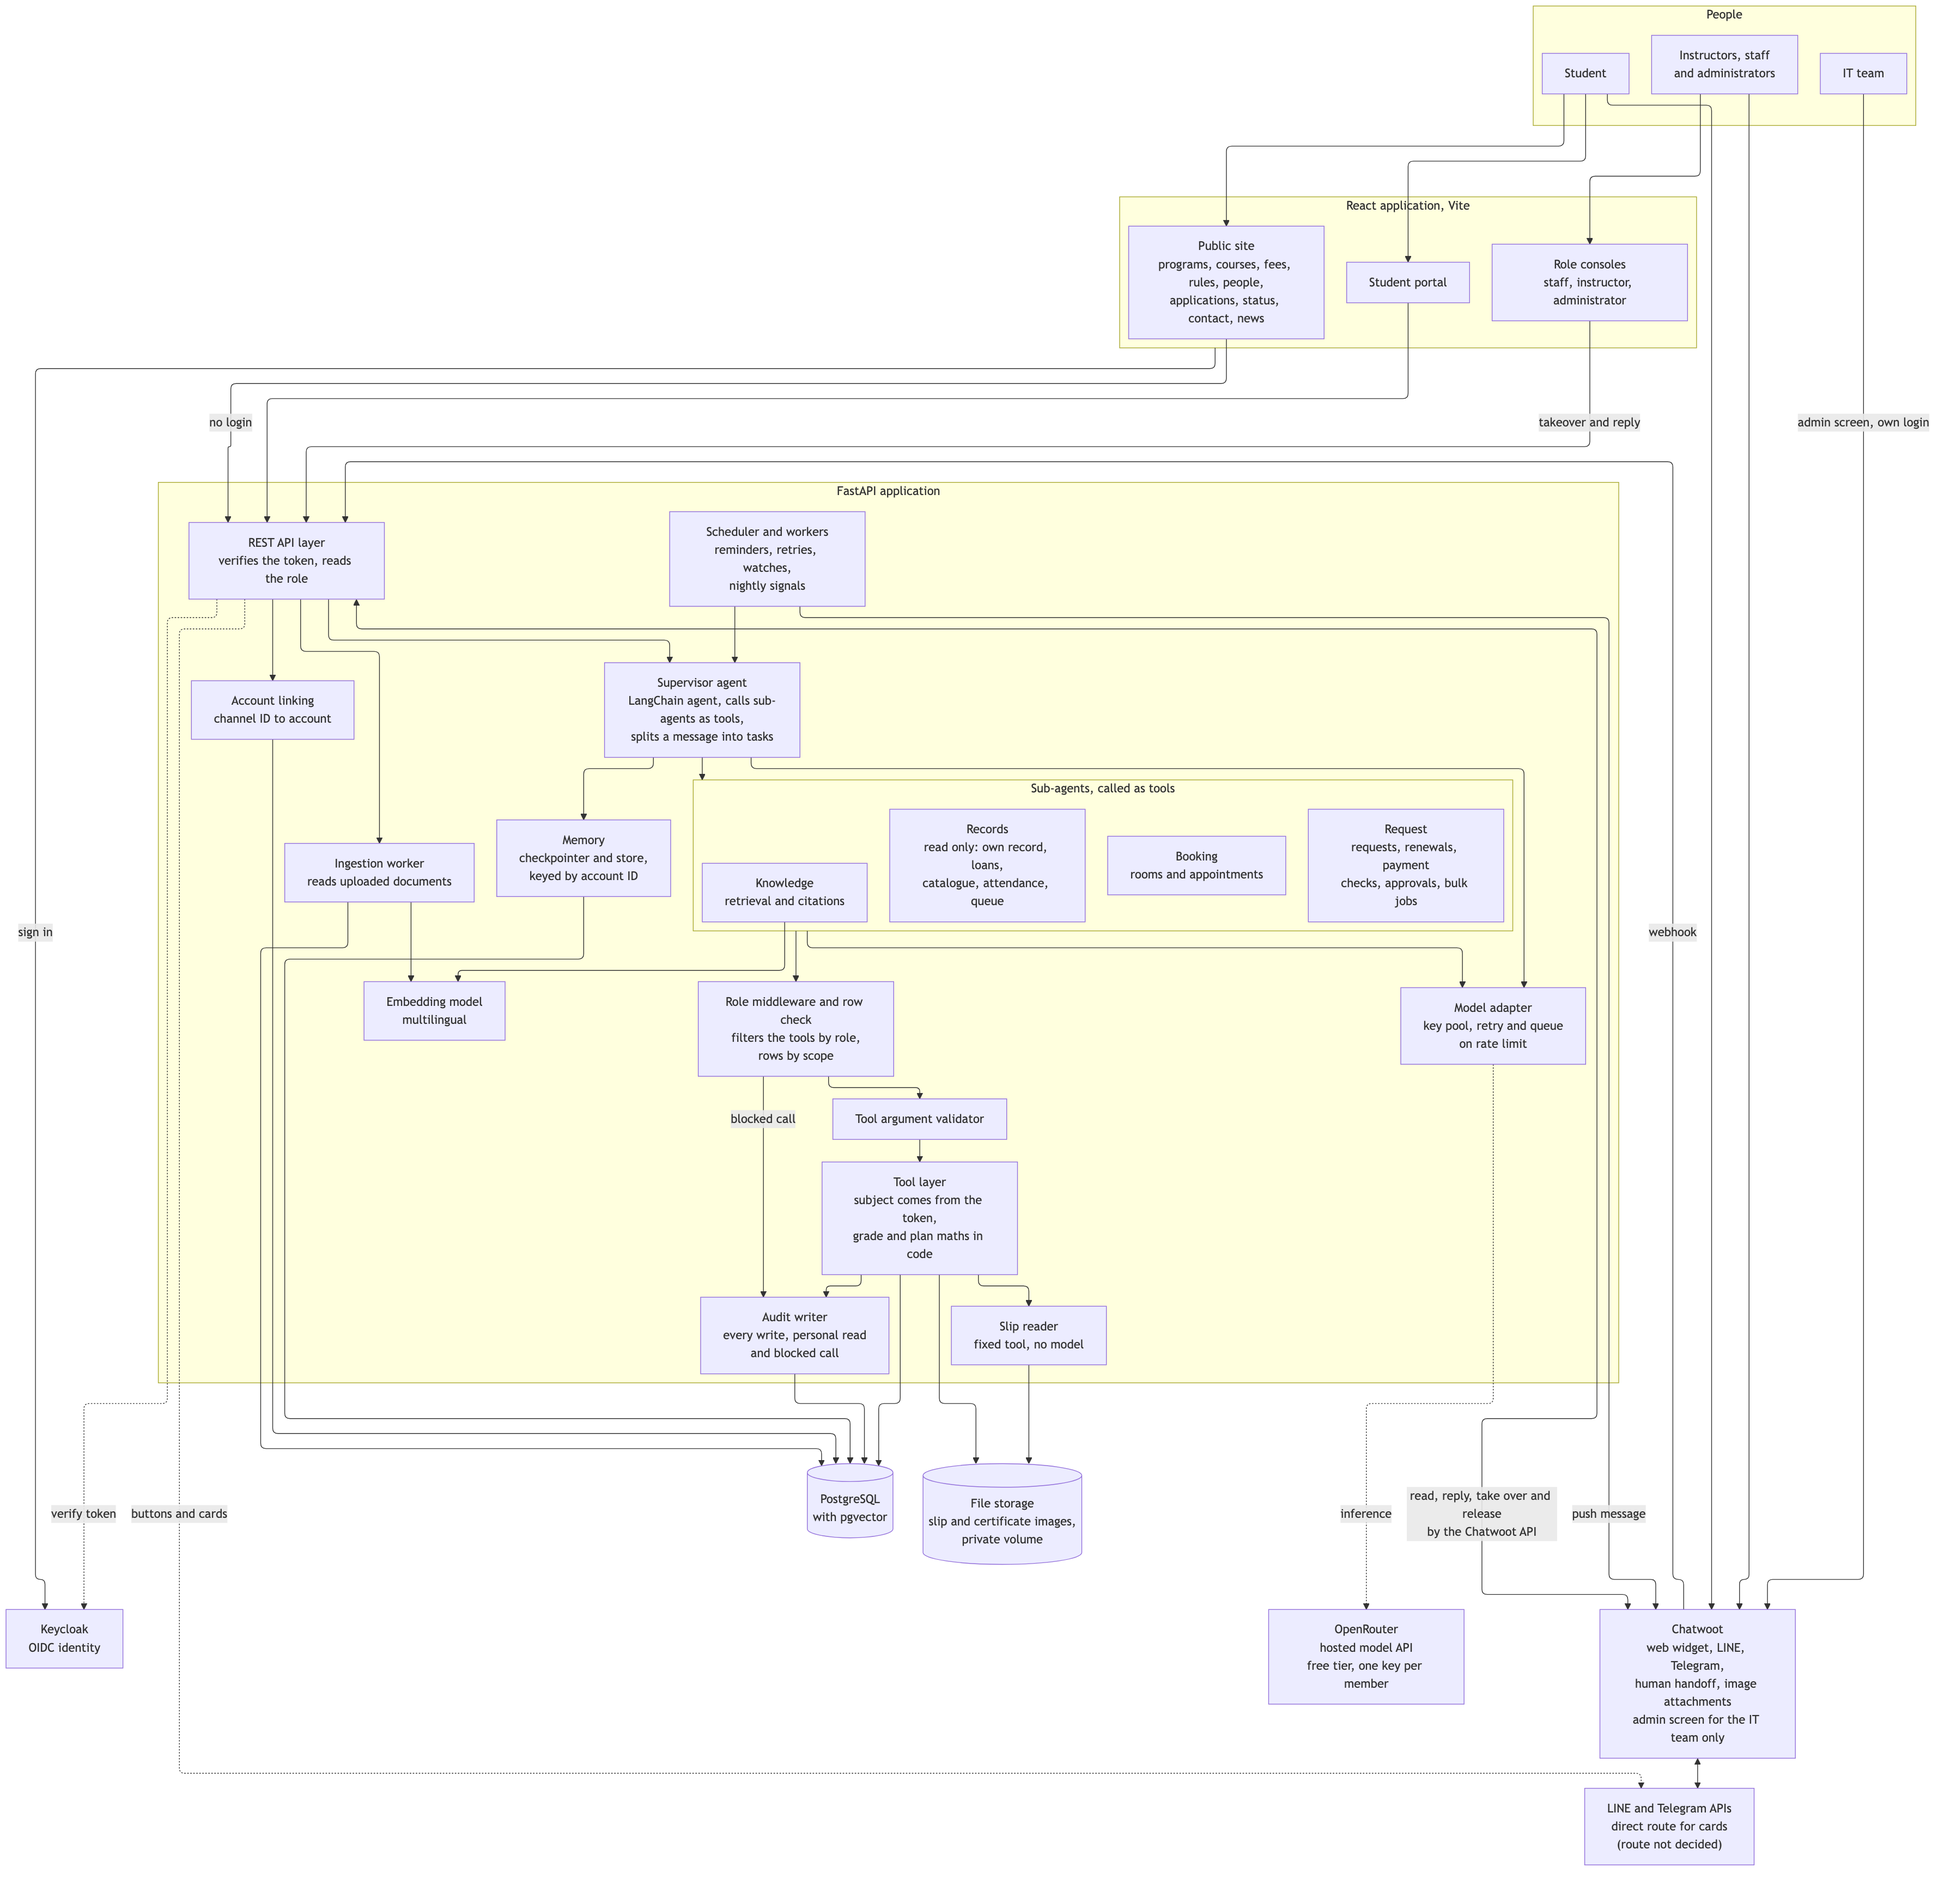
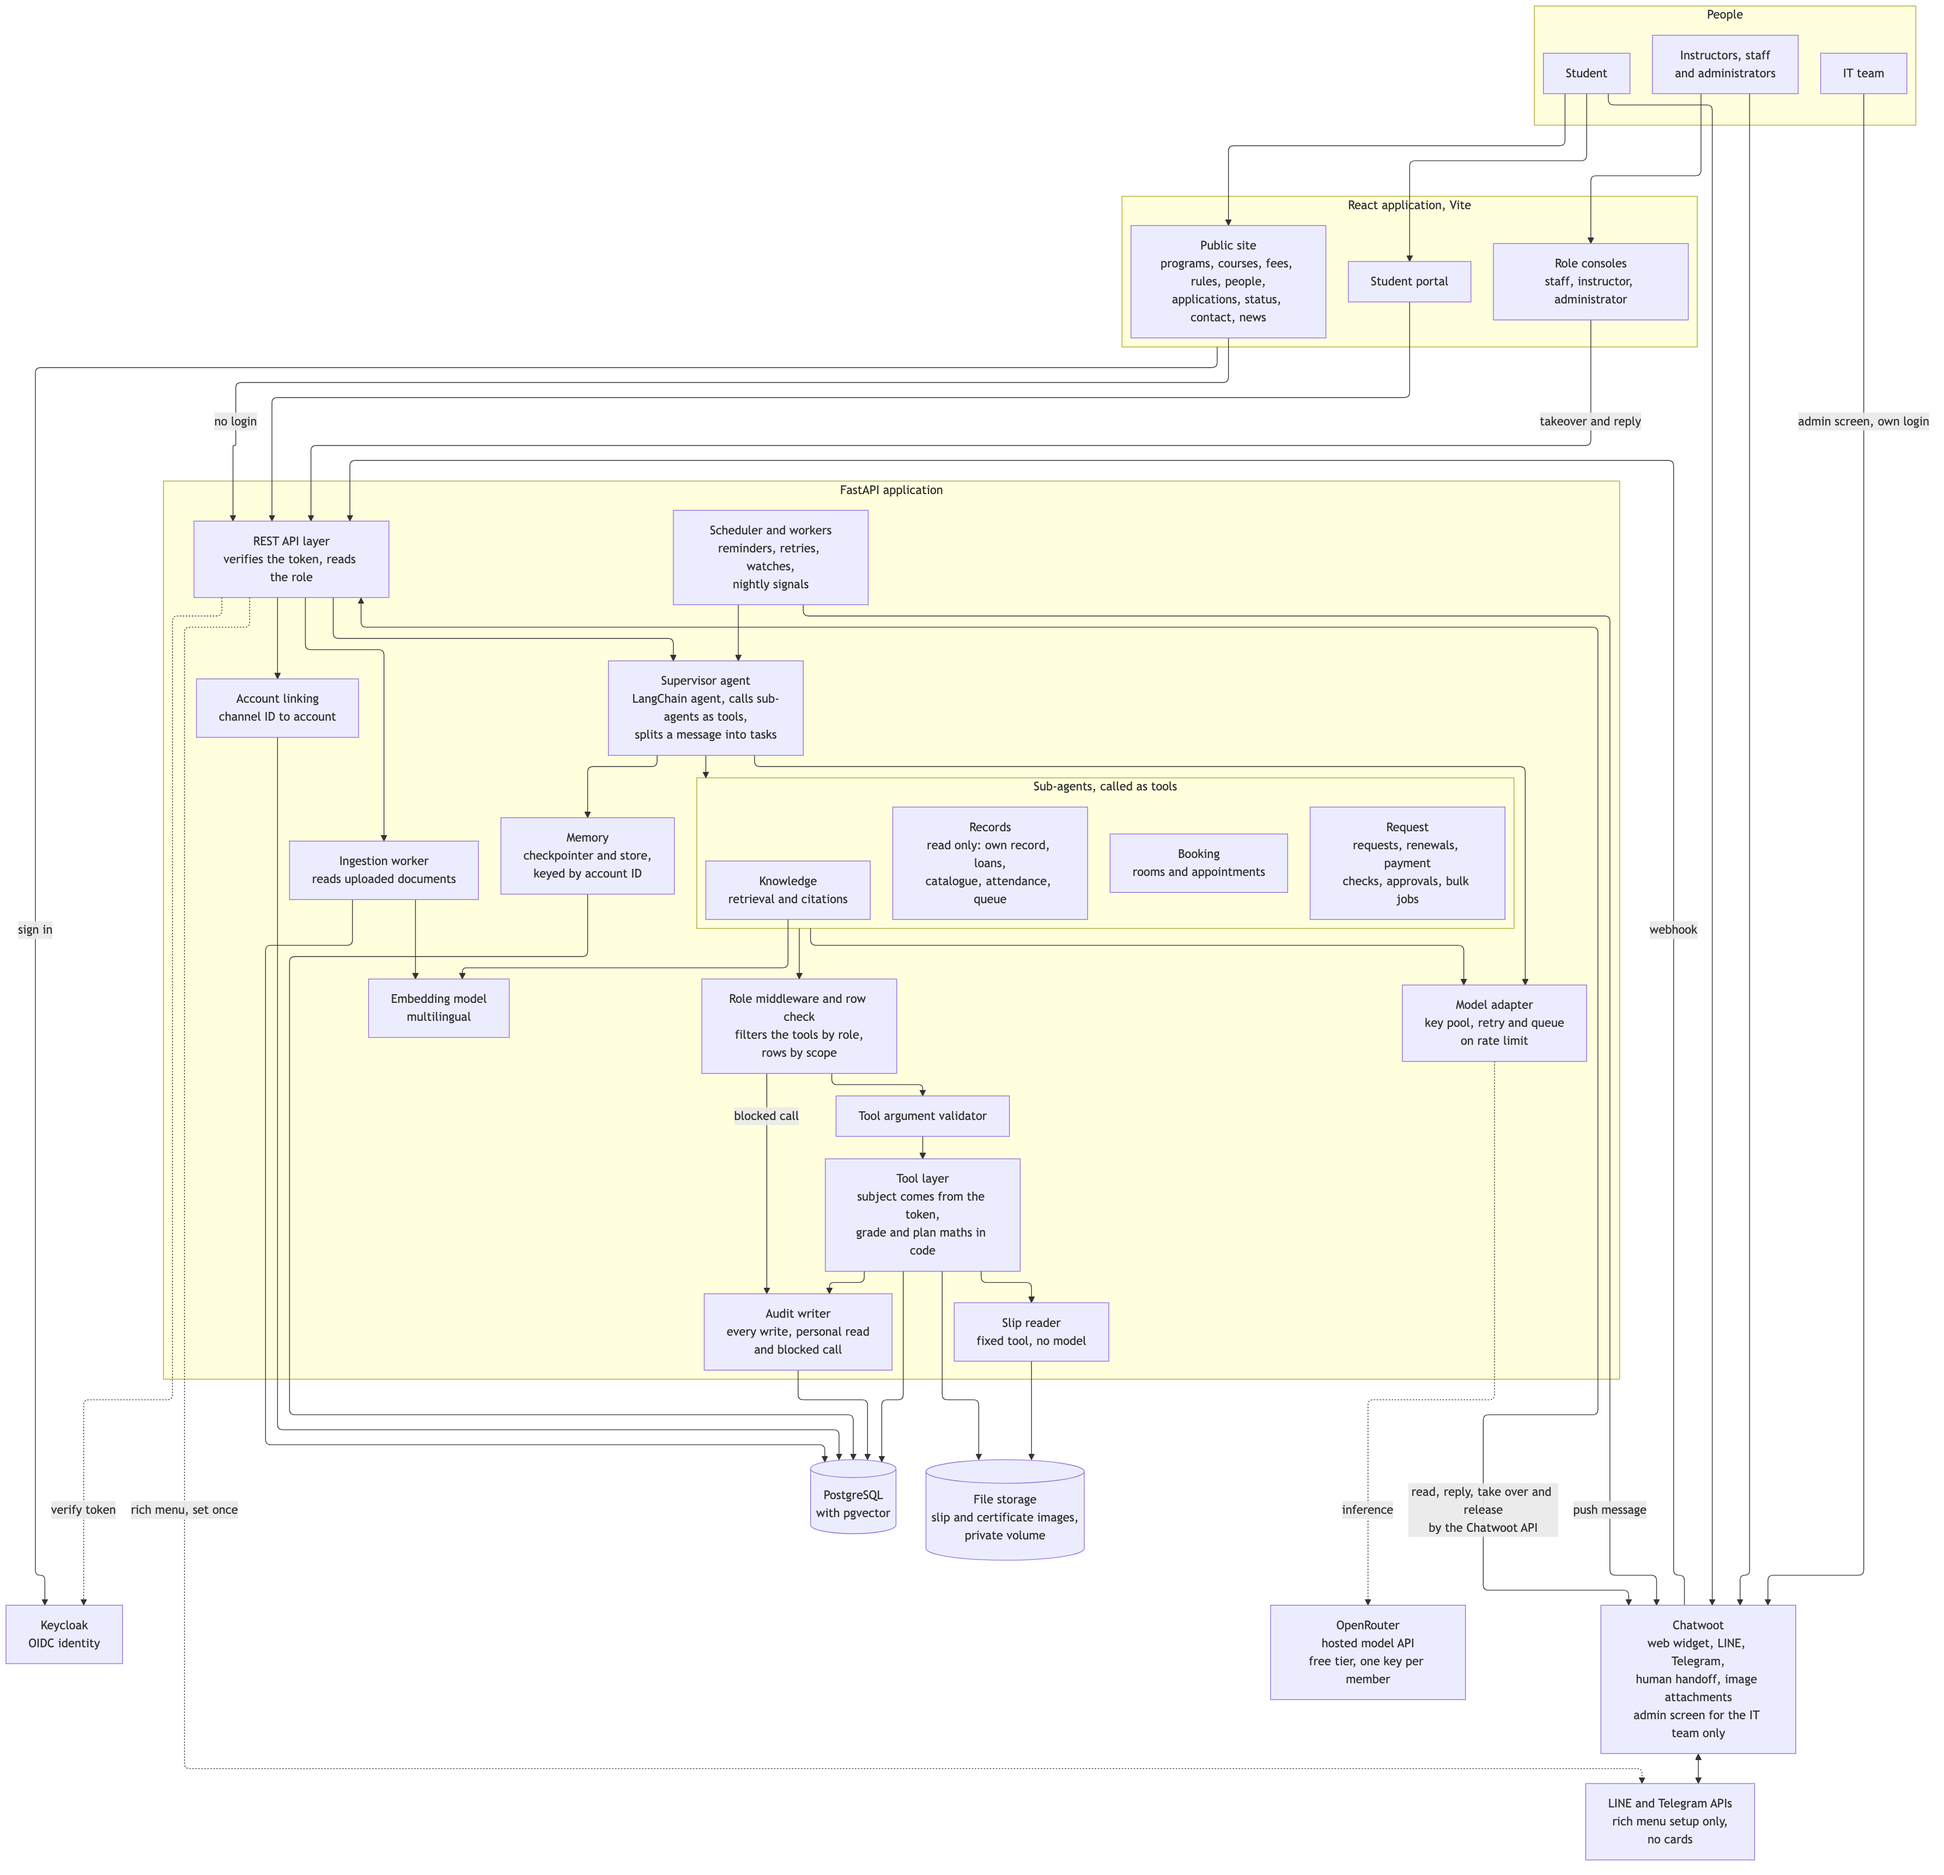
Updated the architecture diagram

diff --git a/design/diagrams/diagrams-source.md b/design/diagrams/diagrams-source.md
@@ -34,7 +34,7 @@ flowchart TB
   end
 
   CWT["Chatwoot<br/>web widget, LINE, Telegram,<br/>human handoff, image attachments<br/>admin screen for the IT team only"]
-  CHN["LINE and Telegram APIs<br/>direct route for cards<br/>(route not decided)"]
+  CHN["LINE and Telegram APIs<br/>rich menu setup only,<br/>no cards"]
 
   subgraph API["FastAPI application"]
     REST["REST API layer<br/>verifies the token, reads the role"]
@@ -76,7 +76,7 @@ flowchart TB
   CON -- "takeover and reply" --> REST
   CWT -- webhook --> REST
   REST <-- "read, reply, take over and release<br/>by the Chatwoot API" --> CWT
-  REST -. "buttons and cards" .-> CHN
+  REST -. "rich menu, set once" .-> CHN
 
   REST --> SUP
   REST -. verify token .-> KC
@@ -121,7 +121,7 @@ Five points are new since the first version.
 4. The public site calls the REST API without a login. This serves applications, contact messages and news.
 5. The supervisor is one LangChain agent that calls each sub-agent as a tool. Every role uses the same supervisor.
 
-The model adapter holds one OpenRouter free-tier key for each member and moves to the next key at a rate limit. A paid provider needs new settings in that one module. The LINE and Telegram APIs show as a dotted path. The route for cards is not decided. Chatwoot sends buttons to LINE and Telegram but it does not send cards.
+The model adapter holds one OpenRouter free-tier key for each member and moves to the next key at a rate limit. A paid provider needs new settings in that one module. The LINE and Telegram APIs show as a dotted path. The assistant sends text, buttons and photos through Chatwoot. Chatwoot does not send cards to LINE and Telegram. The dotted path covers the rich menu, which the University sets once.
 
 ---
 
